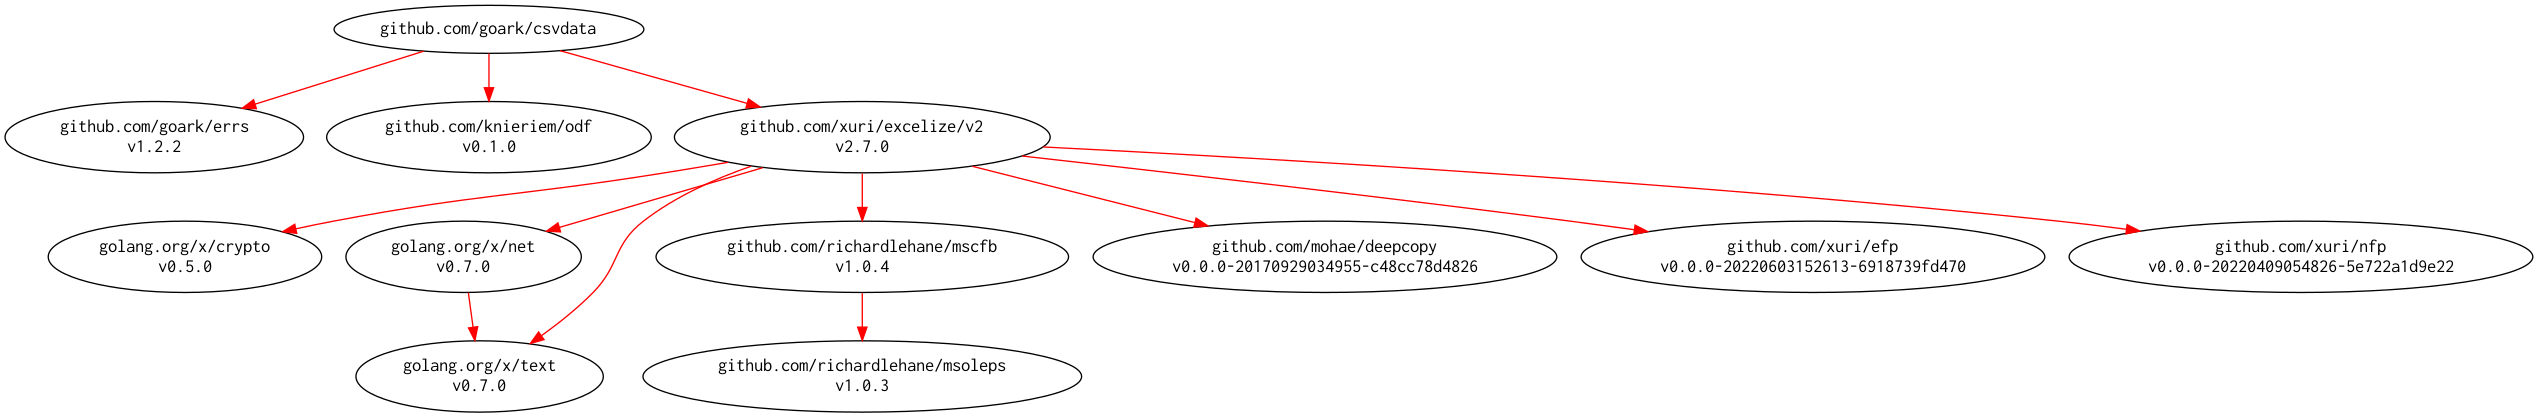
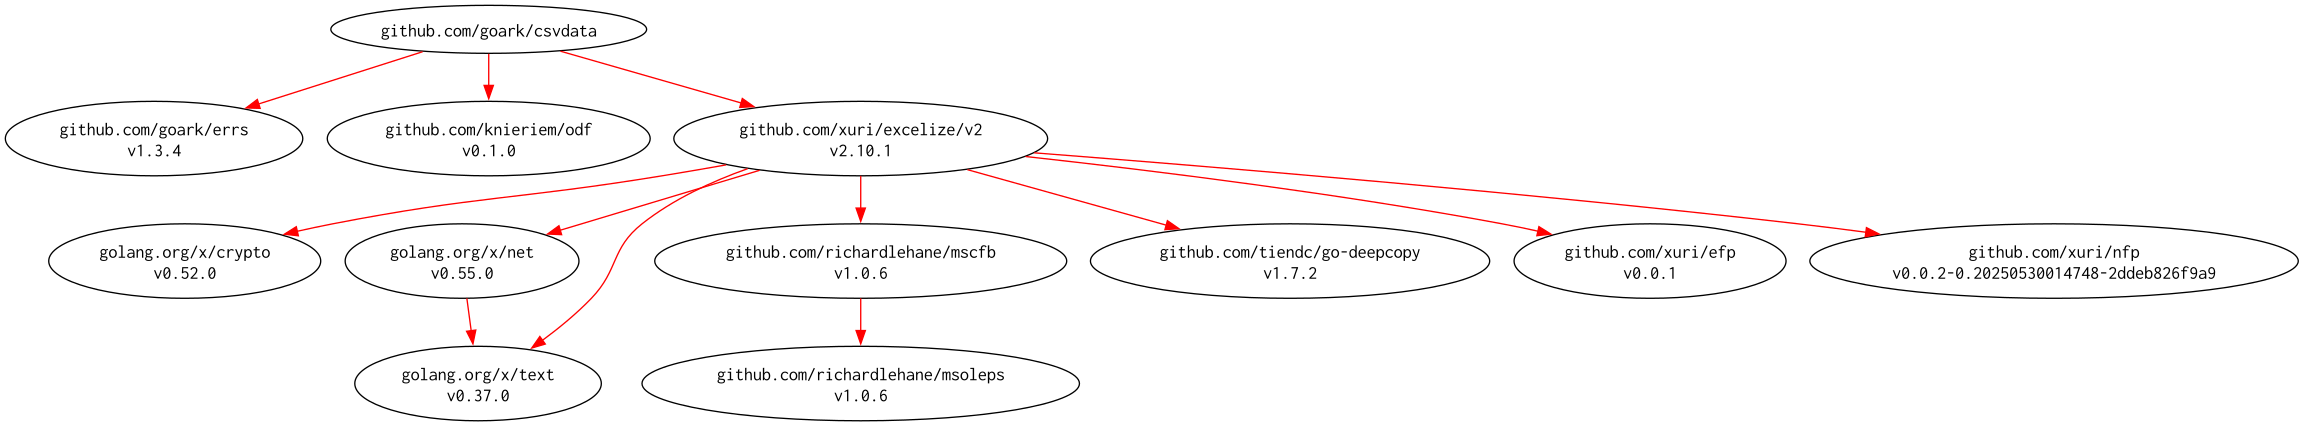
chore: finalize lint hardening and guidance updates

diff --git a/csvdata_test.go b/csvdata_test.go
@@ -28,7 +28,11 @@ const (
 
 func TestWithNil(t *testing.T) {
 	r := csvdata.NewRows((*csvdata.Reader)(nil).WithComma(',').WithTrimSpace(true).WithLazyQuotes(true).WithTrimLeadingSpace(true).WithFieldsPerRecord(1), true)
-	defer r.Close() //dummy
+	t.Cleanup(func() {
+		if err := r.Close(); err != nil {
+			t.Errorf("Close() is \"%+v\", want <nil>.", err)
+		}
+	})
 	if err := r.Next(); !errors.Is(err, csvdata.ErrNullPointer) {
 		t.Errorf("Next() is \"%+v\", want \"%+v\".", err, csvdata.ErrNullPointer)
 	}
@@ -65,7 +69,11 @@ func TestWithNil(t *testing.T) {
 
 func TestNewRowsWithNilReader(t *testing.T) {
 	r := csvdata.NewRows(nil, true)
-	defer r.Close() //dummy
+	t.Cleanup(func() {
+		if err := r.Close(); err != nil {
+			t.Errorf("Close() is \"%+v\", want <nil>.", err)
+		}
+	})
 
 	if _, err := r.Header(); !errors.Is(err, csvdata.ErrNullPointer) {
 		t.Errorf("Header() is \"%+v\", want \"%+v\".", err, csvdata.ErrNullPointer)
@@ -81,7 +89,11 @@ func TestNewRowsWithNilReader(t *testing.T) {
 func TestErrReader(t *testing.T) {
 	errtest := errors.New("test")
 	r := csvdata.NewRows(csvdata.New(iotest.ErrReader(errtest)).WithComma(',').WithTrimSpace(true).WithLazyQuotes(true).WithTrimLeadingSpace(true).WithFieldsPerRecord(1), true)
-	defer r.Close() //dummy
+	t.Cleanup(func() {
+		if err := r.Close(); err != nil {
+			t.Errorf("Close() is \"%+v\", want <nil>.", err)
+		}
+	})
 	if err := r.Next(); !errors.Is(err, errtest) {
 		t.Errorf("Next() is \"%+v\", want \"%+v\".", err, errtest)
 	}
@@ -92,7 +104,11 @@ func TestErrReader(t *testing.T) {
 
 func TestBlankReader(t *testing.T) {
 	r := csvdata.NewRows(csvdata.New(strings.NewReader("")).WithComma(',').WithFieldsPerRecord(1), true)
-	defer r.Close() //dummy
+	t.Cleanup(func() {
+		if err := r.Close(); err != nil {
+			t.Errorf("Close() is \"%+v\", want <nil>.", err)
+		}
+	})
 	if err := r.Next(); !errors.Is(err, io.EOF) {
 		t.Errorf("Next() is \"%+v\", want \"%+v\".", err, io.EOF)
 	}
@@ -235,7 +251,7 @@ func TestNormal(t *testing.T) {
 			if !errors.Is(err, tc.err) {
 				t.Errorf("ColumnByte() is \"%+v\", want \"%+v\".", err, tc.err)
 			}
-			if err == nil && orderB != byte(tc.order) {
+			if err == nil && int(orderB) != int(tc.order) {
 				t.Errorf("ColumnByte() is \"%+v\", want \"%+v\".", orderB, tc.order)
 			}
 			orderByte, err := rc.ColumnNullByte("order", 10)

diff --git a/rows.go b/rows.go
@@ -322,7 +322,8 @@ func (r *Rows) ColumnNullInt32(s string, base int) (sql.NullInt32, error) {
 	if res.Valid && (res.Int64 < math.MinInt32 || res.Int64 > math.MaxInt32) {
 		return sql.NullInt32{}, errs.Wrap(strconv.ErrRange)
 	}
-	return sql.NullInt32{Int32: int32(res.Int64 & 0xffffffff), Valid: true}, nil
+	// #nosec G115 -- Value range is checked just above.
+	return sql.NullInt32{Int32: int32(res.Int64), Valid: true}, nil
 }
 
 // ColumnNullInt16 method returns sql.NullFloat64 data in current row.
@@ -334,7 +335,8 @@ func (r *Rows) ColumnNullInt16(s string, base int) (sql.NullInt16, error) {
 	if res.Valid && (res.Int64 < math.MinInt16 || res.Int64 > math.MaxInt16) {
 		return sql.NullInt16{Valid: false}, errs.Wrap(strconv.ErrRange)
 	}
-	return sql.NullInt16{Int16: int16(res.Int64 & 0xffff), Valid: true}, nil
+	// #nosec G115 -- Value range is checked just above.
+	return sql.NullInt16{Int16: int16(res.Int64), Valid: true}, nil
 }
 
 // ColumnNullByte method returns sql.NullByte data in current row.
@@ -346,7 +348,8 @@ func (r *Rows) ColumnNullByte(s string, base int) (sql.NullByte, error) {
 	if res.Valid && (res.Int64 < 0 || res.Int64 > math.MaxUint8) {
 		return sql.NullByte{Valid: false}, errs.Wrap(strconv.ErrRange)
 	}
-	return sql.NullByte{Byte: byte(res.Int64 & 0xff), Valid: true}, nil
+	// #nosec G115 -- Value range is checked just above.
+	return sql.NullByte{Byte: byte(res.Int64), Valid: true}, nil
 }
 
 // ColumnInt64 method returns type int64 data in current row.
@@ -395,7 +398,7 @@ func (r *Rows) ColumnInt8(s string, base int) (int8, error) {
 		if res.Int16 < math.MinInt8 || res.Int16 > math.MaxInt8 {
 			return 0, errs.Wrap(strconv.ErrRange)
 		}
-		return int8(res.Int16 & 0xff), nil
+		return int8(res.Int16), nil
 	}
 	return 0, errs.Wrap(ErrNullValue)
 }

diff --git a/csvdata.go b/csvdata.go
@@ -4,6 +4,7 @@ import (
 	"encoding/csv"
 	"io"
 	"os"
+	"path/filepath"
 
 	"github.com/goark/errs"
 )
@@ -19,9 +20,13 @@ var _ RowsReader = (*Reader)(nil) //Reader is compatible with RowsReader interfa
 
 // OpenFile returns CSV file Reader.
 func OpenFile(path string) (*os.File, error) {
-	file, err := os.Open(path)
+	cleanPath := path
+	if len(path) > 0 {
+		cleanPath = filepath.Clean(path)
+	}
+	file, err := os.Open(cleanPath)
 	if err != nil {
-		return nil, errs.Wrap(err, errs.WithContext("path", path))
+		return nil, errs.Wrap(err, errs.WithContext("path", cleanPath))
 	}
 	return file, nil
 }

diff --git a/calcdata/calcdata.go b/calcdata/calcdata.go
@@ -62,12 +62,14 @@ func (r *Reader) Read() ([]string, error) {
 	return cols, nil
 }
 
-func openFile(path string) (*ods.Doc, error) {
+func openFile(path string) (_ *ods.Doc, err error) {
 	f, err := ods.Open(path)
 	if err != nil {
 		return nil, errs.Wrap(err, errs.WithContext("path", path))
 	}
-	defer f.Close()
+	defer func() {
+		err = errs.Join(err, errs.Wrap(f.Close(), errs.WithContext("path", path)))
+	}()
 	var doc ods.Doc
 	if err := f.ParseContent(&doc); err != nil {
 		return nil, errs.Wrap(err, errs.WithContext("path", path))

diff --git a/example_test.go b/example_test.go
@@ -13,7 +13,11 @@ func ExampleNew() {
 		return
 	}
 	rc := csvdata.NewRows(csvdata.New(file), true)
-	defer rc.Close()
+	defer func() {
+		if err := rc.Close(); err != nil {
+			panic(err)
+		}
+	}()
 
 	if err := rc.Next(); err != nil {
 		fmt.Println(err)

diff --git a/calcdata/example_test.go b/calcdata/example_test.go
@@ -19,7 +19,11 @@ func ExampleNew() {
 		return
 	}
 	rc := csvdata.NewRows(r, true)
-	defer rc.Close() //dummy
+	defer func() {
+		if err := rc.Close(); err != nil {
+			panic(err)
+		}
+	}()
 
 	if err := rc.Next(); err != nil {
 		fmt.Println(err)

diff --git a/exceldata/example_test.go b/exceldata/example_test.go
@@ -19,7 +19,11 @@ func ExampleNew() {
 		return
 	}
 	rc := csvdata.NewRows(r, true)
-	defer rc.Close() //dummy
+	defer func() {
+		if err := rc.Close(); err != nil {
+			panic(err)
+		}
+	}()
 
 	if err := rc.Next(); err != nil {
 		fmt.Println(err)

diff --git a/.github/copilot-instructions.md b/.github/copilot-instructions.md
@@ -39,6 +39,17 @@ golangci-lint-v2 run --enable gosec --timeout 3m0s ./...
 
 - Prefer deterministic tests. Avoid external network dependencies.
 
+## Lint and Security Notes
+
+- In deferred cleanup, merge close errors with existing return errors using `errs.Join`.
+  - Example policy: `err = errs.Join(err, errs.Wrap(closeErr, errs.WithContext(...)))`
+- For file path handling, prefer sanitizing with `filepath.Clean` before opening files.
+  - Avoid using `#nosec G304` as the first option when path normalization can mitigate the warning.
+- For narrowing integer conversions (`G115`), prefer explicit range checks before conversion.
+  - If linter still reports a false positive after range checks, allow minimal `#nosec G115` with a reason comment.
+- Prefer clear conversions over bit-mask tricks for readability.
+  - After range checks, use direct conversion (e.g. `byte(v)`), not masking (e.g. `byte(v & 0xff)`).
+
 ## Release Process
 
 - Create releases from `main`.
